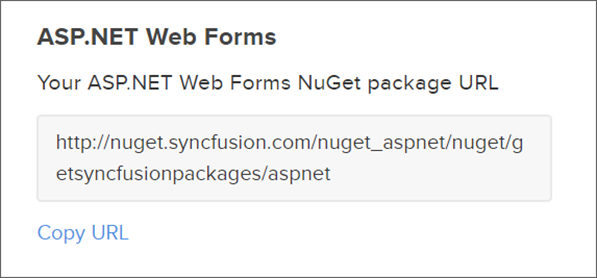
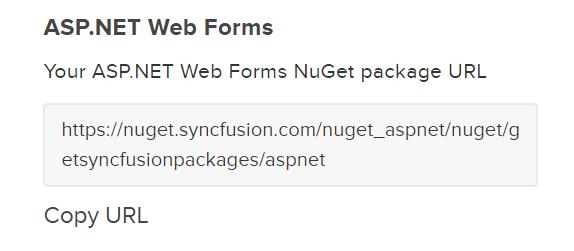
EXT-3461-NuGet-Feed-Changes

diff --git a/aspnet/NuGet-Packages.md b/aspnet/NuGet-Packages.md
@@ -21,7 +21,7 @@ You should get the private Syncfusion ASP.NET Web Forms NuGet feed URL to instal
 
 2. Navigate to **WEB (Essential JS1)**, click the Copy URL label under ASP.NET Web Forms platform to copy the Syncfusion ASP.NET Web Forms platform NuGet feed to clipboard or directly use the following URL: 
 
-    [http://nuget.syncfusion.com/nuget_aspnet/nuget/getsyncfusionpackages/aspnet](http://nuget.syncfusion.com/nuget_aspnet/nuget/getsyncfusionpackages/aspnet) 
+    [https://nuget.syncfusion.com/nuget_aspnet/nuget/getsyncfusionpackages/aspnet](https://nuget.syncfusion.com/nuget_aspnet/nuget/getsyncfusionpackages/aspnet) 
 
     ![](NuGet_Packages_Images/img1.png)
 
@@ -42,7 +42,7 @@ You should get the private Syncfusion ASP.NET Web Forms NuGet feed URL to instal
     **Name:** Name of the package listed in the available package sources.
     
     **Source:** Syncfusion ASP.NET NuGet Feed URL      
-    [http://nuget.syncfusion.com/nuget_aspnet/nuget/getsyncfusionpackages/aspnet](http://nuget.syncfusion.com/nuget_aspnet/nuget/getsyncfusionpackages/aspnet).
+    [https://nuget.syncfusion.com/nuget_aspnet/nuget/getsyncfusionpackages/aspnet](https://nuget.syncfusion.com/nuget_aspnet/nuget/getsyncfusionpackages/aspnet).
 
 5.	Click the **Update** button to add the name and source details to package sources. 
 
@@ -64,7 +64,7 @@ You should get the private Syncfusion ASP.NET Web Forms NuGet feed URL to instal
    
     **Name:** Enter the name (For e.g., Syncfusion ASP.NET Web Forms Packages).
    
-    **Location:** Enter the following URL – [http://nuget.syncfusion.com/nuget_aspnet/nuget/getsyncfusionpackages/aspnet](http://nuget.syncfusion.com/nuget_aspnet/nuget/getsyncfusionpackages/aspnet).
+    **Location:** Enter the following URL – [https://nuget.syncfusion.com/nuget_aspnet/nuget/getsyncfusionpackages/aspnet](https://nuget.syncfusion.com/nuget_aspnet/nuget/getsyncfusionpackages/aspnet).
 
     ![](NuGet_Packages_Images/img5.png)
  
@@ -115,7 +115,7 @@ To reference the Syncfusion ASP.NET Web Forms component using the Package Manage
     Install-Package Syncfusion.AspNet
 
     #install specified package in default project with specified Package Source
-    Install-Package Syncfusion.AspNet -Source “http://nuget.syncfusion.com/nuget_aspnet/nuget/getsyncfusionpackages/aspnet”
+    Install-Package Syncfusion.AspNet -Source “https://nuget.syncfusion.com/nuget_aspnet/nuget/getsyncfusionpackages/aspnet”
 
     #install specified package in specified project 
     Install-Package Syncfusion.AspNet -ProjectName SyncfusionDemoApplication
@@ -165,10 +165,10 @@ The NuGet Command Line Interface (CLI), nuget.exe, provides the full extent of N
 
     ~~~
     #For Windows platform
-    nuget.exe Sources Add –Name “Syncfusion Source” –Source “http://nuget.syncfusion.com/nuget_aspnet/nuget/getsyncfusionpackages/aspnet”
+    nuget.exe Sources Add –Name “Syncfusion Source” –Source “https://nuget.syncfusion.com/nuget_aspnet/nuget/getsyncfusionpackages/aspnet”
 
     #For MAC/Linux platform
-    mono nuget.exe Sources Add –Name “Syncfusion Source” –Source “http://nuget.syncfusion.com/nuget_aspnet/nuget/getsyncfusionpackages/aspnet”
+    mono nuget.exe Sources Add –Name “Syncfusion Source” –Source “https://nuget.syncfusion.com/nuget_aspnet/nuget/getsyncfusionpackages/aspnet”
     ~~~
 
 ### NuGet installation
@@ -195,7 +195,7 @@ nuget.exe install “Syncfusion.AspNet”
 nuget.exe install “C:\Users\SyncfusionApplication\package.config”
 
 #install specific Syncfusion NuGet package with Syncfusion ASP.NET Web Forms NuGet feed for Windows 
-nuget.exe install “Syncfusion.AspNet” –Source "http://nuget.syncfusion.com/nuget_aspnet/nuget/getsyncfusionpackages/aspnet”
+nuget.exe install “Syncfusion.AspNet” –Source "https://nuget.syncfusion.com/nuget_aspnet/nuget/getsyncfusionpackages/aspnet”
 
 #install specific package for Mac and Linux 
 mono nuget.exe install “Syncfusion.AspNet”
@@ -204,7 +204,7 @@ mono nuget.exe install “Syncfusion.AspNet”
 mono nuget.exe install “C:\Users\SyncfusionApplication\package.config”
 
 #install specific Syncfusion NuGet package with Syncfusion ASP.NET Web Forms NuGet feed for Mac and Linux 
-mono nuget.exe install “Syncfusion.AspNet” –Source “http://nuget.syncfusion.com/nuget_aspnet/nuget/getsyncfusionpackages/aspnet”
+mono nuget.exe install “Syncfusion.AspNet” –Source “https://nuget.syncfusion.com/nuget_aspnet/nuget/getsyncfusionpackages/aspnet”
 ~~~
 
 ## Upgrading NuGet packages
@@ -259,7 +259,7 @@ To update the installed Syncfusion ASP.NET Web Forms NuGet packages using the Pa
     Update-Package Syncfusion.AspNet
 
     #Update specified package in default project with specified Package Source
-    Update-Package Syncfusion.AspNet –Source “http://nuget.syncfusion.com/nuget_aspnet/nuget/getsyncfusionpackages/aspnet” 
+    Update-Package Syncfusion.AspNet –Source “https://nuget.syncfusion.com/nuget_aspnet/nuget/getsyncfusionpackages/aspnet” 
 
     #Update specified package in specified project 
     Update-Package Syncfusion.AspNet -ProjectName SyncfusionDemoApplication
@@ -296,7 +296,7 @@ Using the NuGet CLI, all the NuGet packages in the project can be updated to the
     nuget update “C:\Users\SyncfusionApplication\package.config”
 
     #Update all NuGet packages from specified Packages Source
-    nuget update -Source “http://nuget.syncfusion.com/nuget_aspnet/nuget/getsyncfusionpackages/aspnet”
+    nuget update -Source “https://nuget.syncfusion.com/nuget_aspnet/nuget/getsyncfusionpackages/aspnet”
     ~~~
 
     N> Update command is not working as expected in Mono (Mac and Linux) and projects using PackageReference format.
